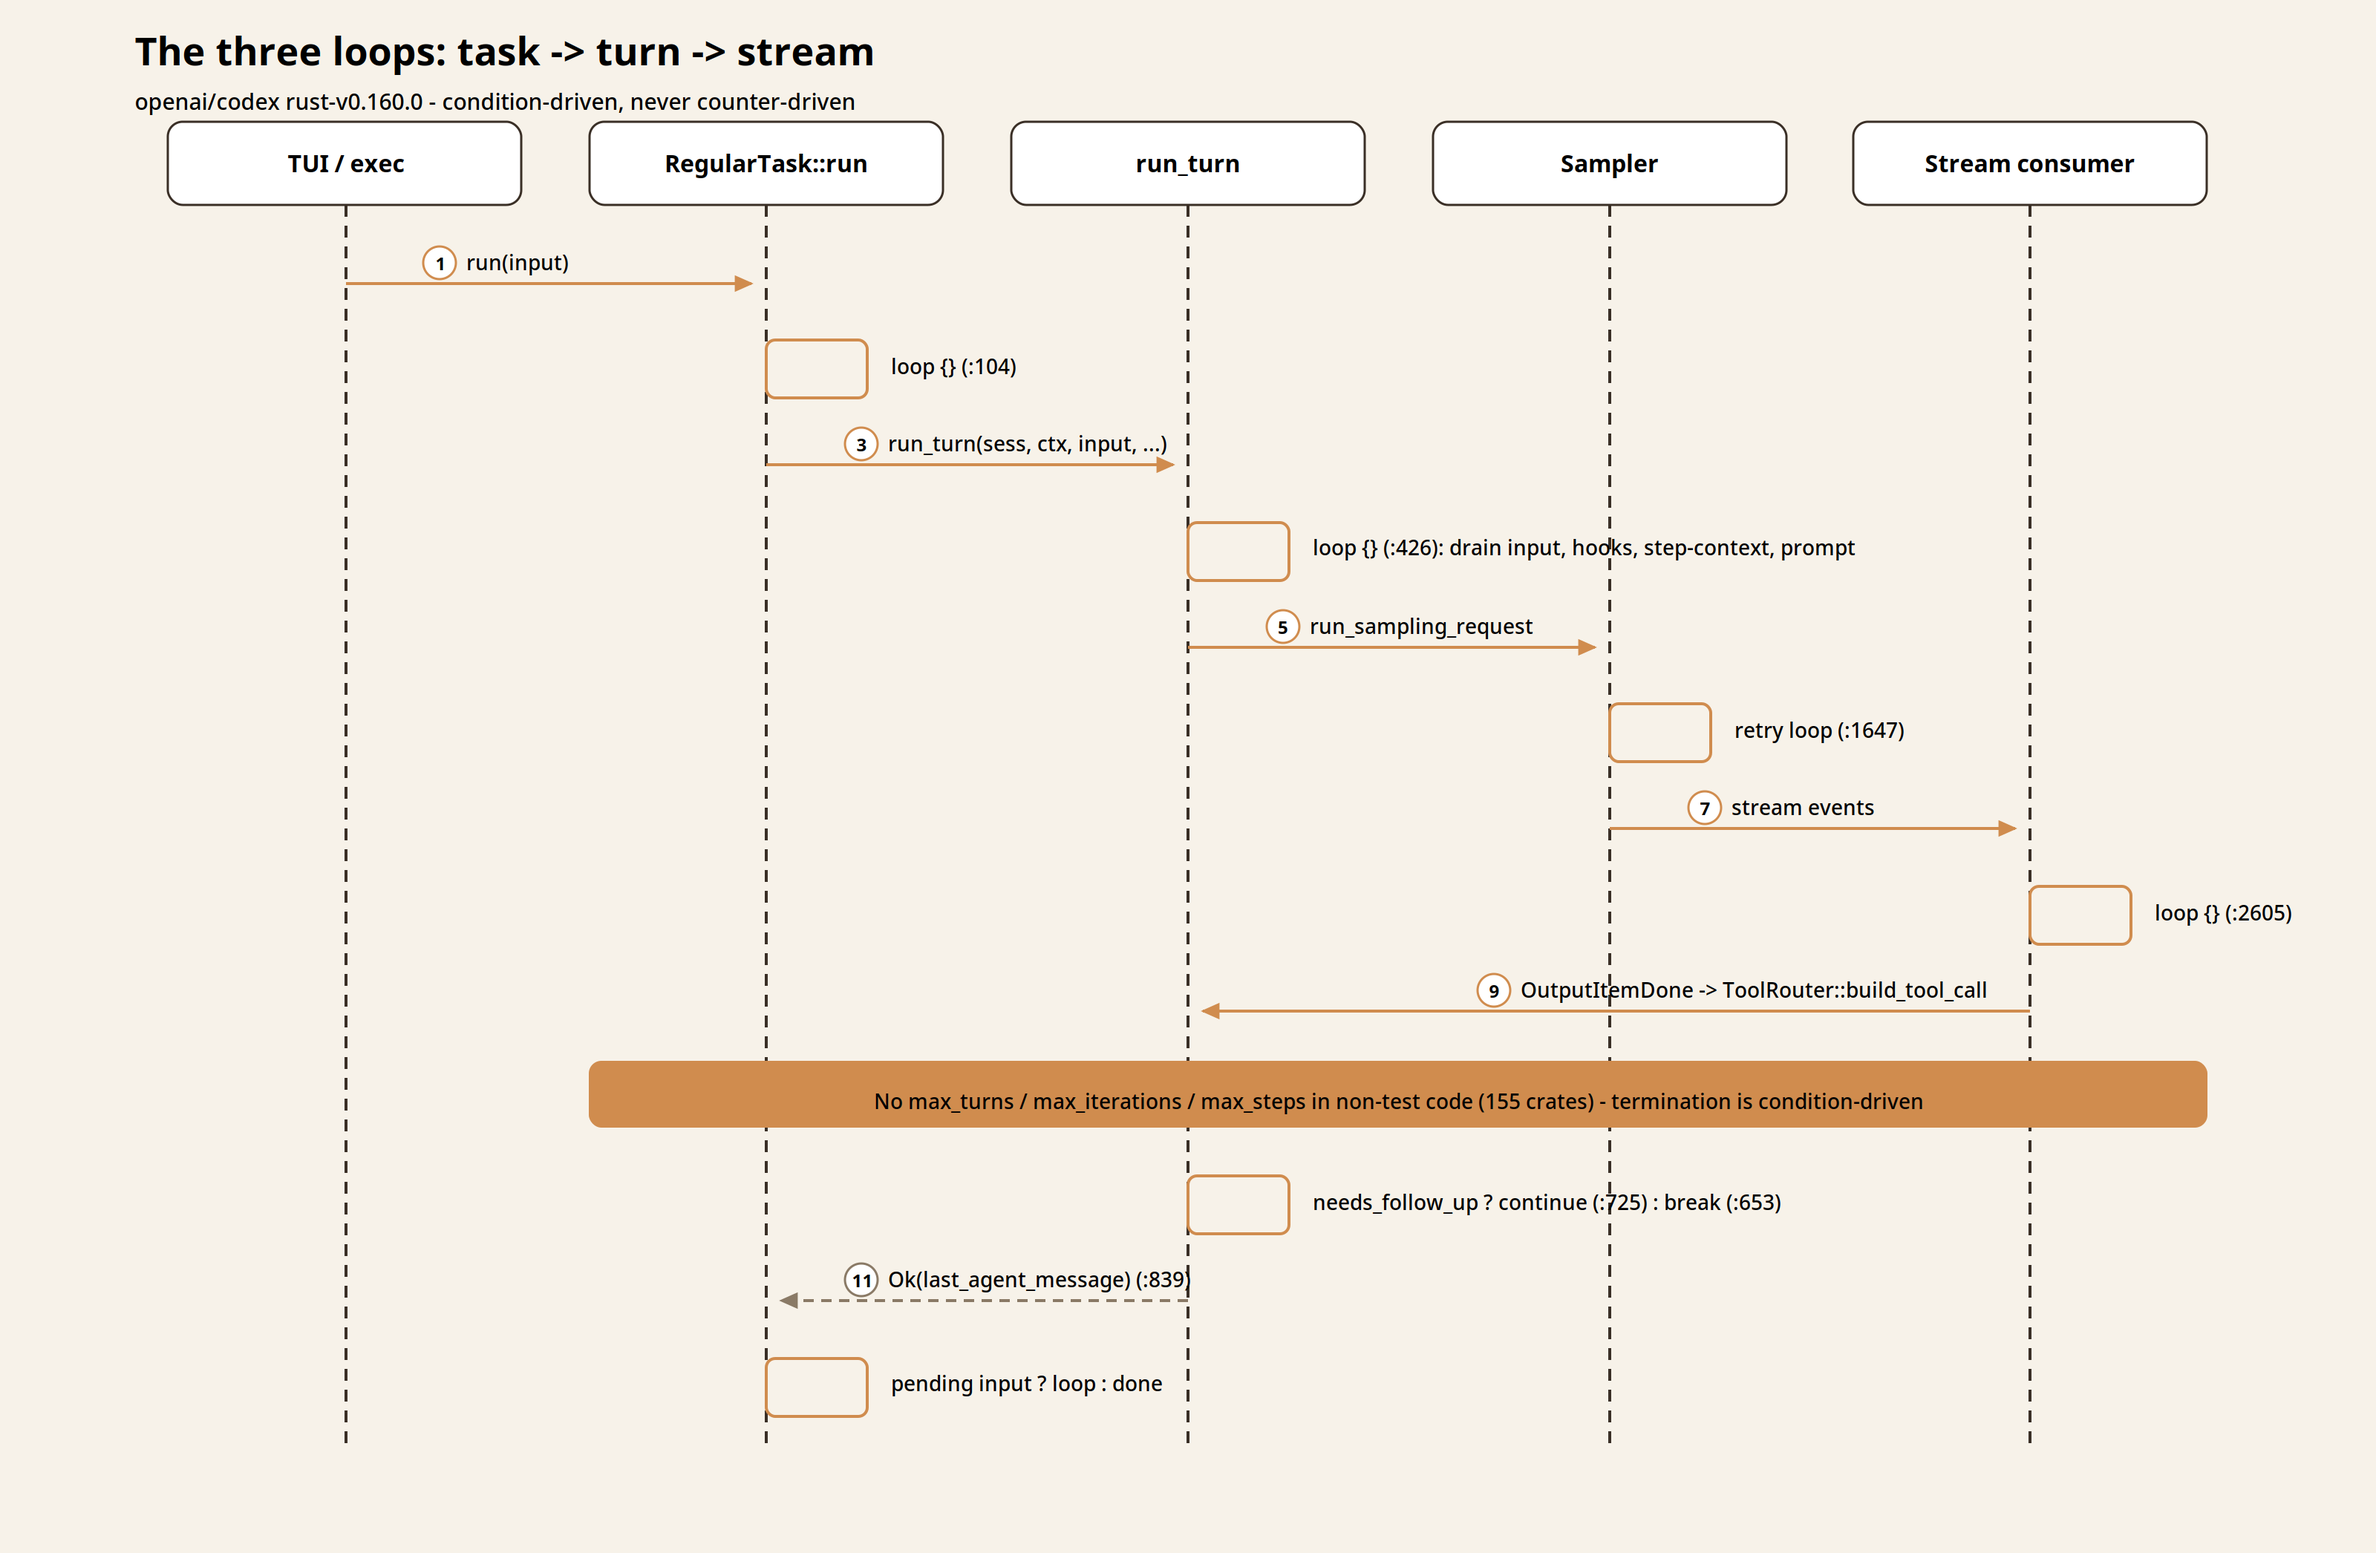
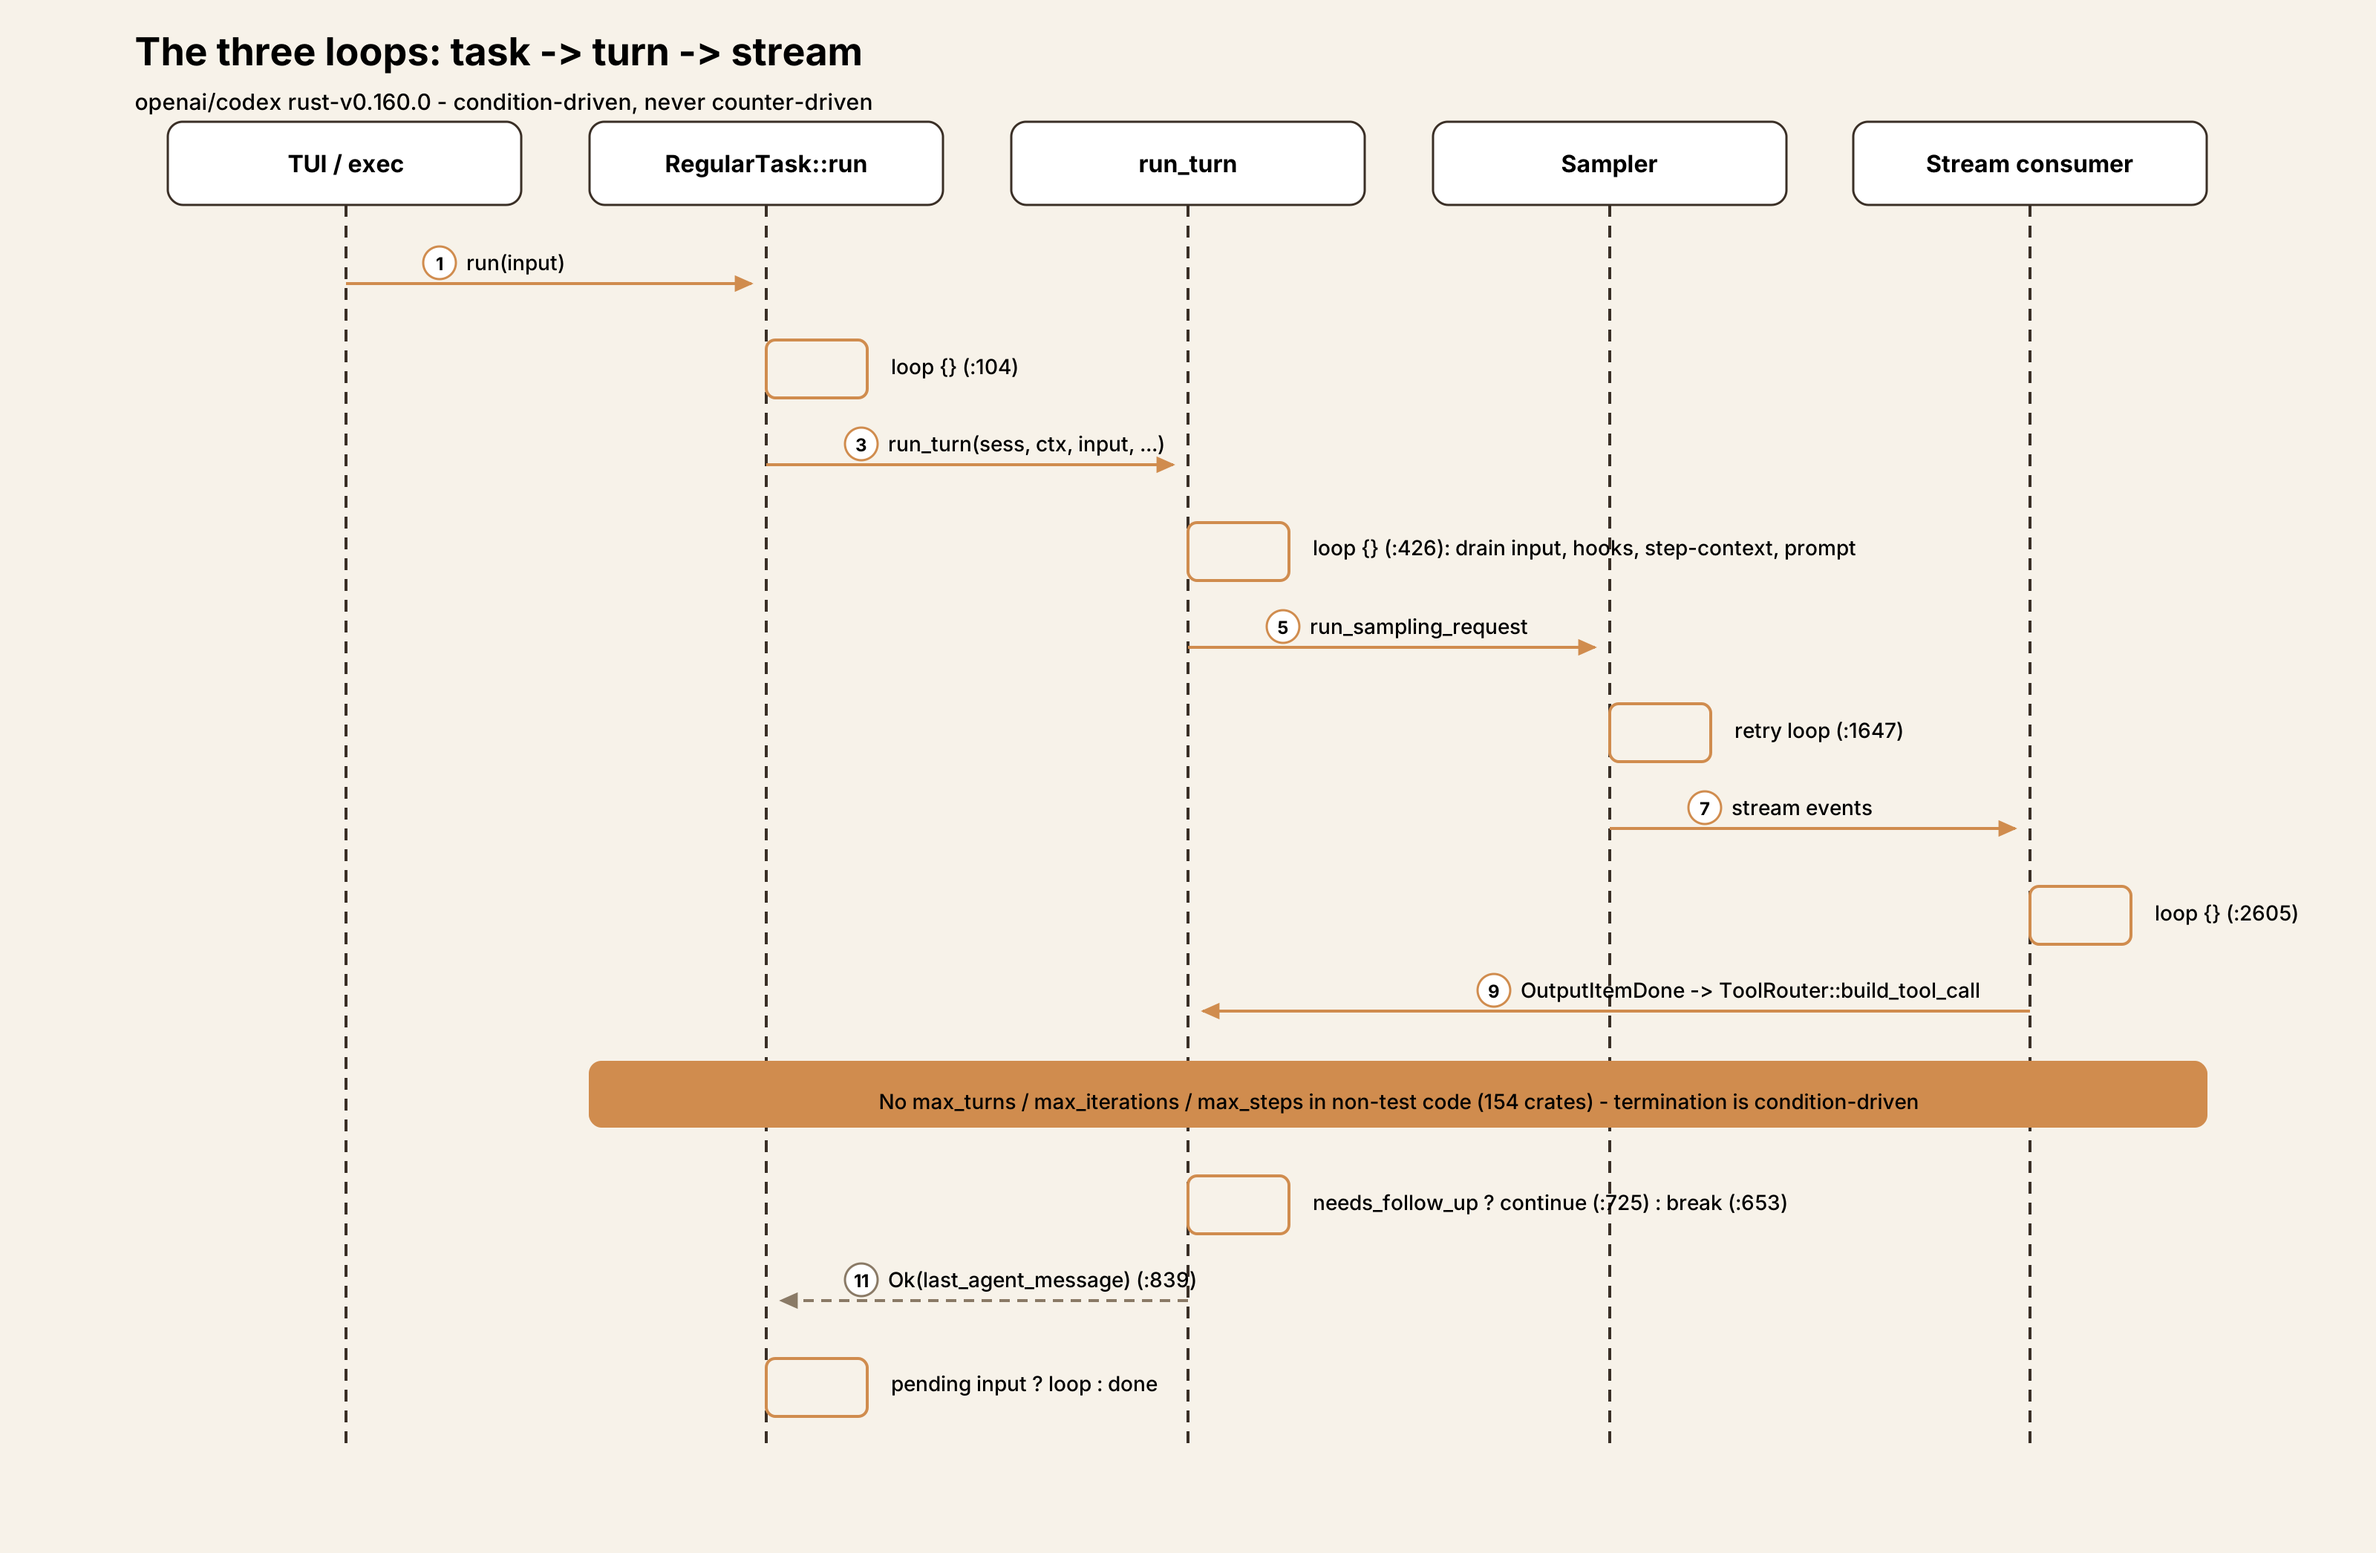
figures: carry corrected facts into figures and trace data
- cline seq-approval figure and trace steps: "commands prompt by default"
- pi trace steps: ~42 providers
- codex seq-loops figure and trace page: 154 crates
Matching @2x PNGs re-rendered from the updated SVGs.

diff --git a/codex/trace.html b/codex/trace.html
@@ -180,7 +180,7 @@
     <div class="ret"><b>One pass</b> &mdash; TUI keypress &rarr; app-server <code>turn/start</code> &rarr; <code>Op::TurnInput</code> &rarr; core: <code>spawn_task</code> &rarr; <code>run_turn</code> &rarr; prompt build &rarr; <code>/responses</code> stream &rarr; tool futures gated by approvals &rarr; loop or stop. Three loops nest: <code>RegularTask::run</code> &rarr; <code>run_turn</code> &rarr; sampler retry + stream consumer.</div>
     <div class="flow" id="flowBranch"></div>
     <div class="ret"><b>Approval pause</b> &mdash; step 11 is a center step, not a branch: the turn loop parks in <code>drain_in_flight</code> until the approval decision lands, because approvals gate individual tool futures rather than re-prompting the model. Denials become failure tool results, not loop breaks.</div>
-    <div class="ret" style="border-color:#d08c4e"><b>Outer turn loop</b> &mdash; no <code>max_turns</code> anywhere in the tree (VERIFIED negative across 155 crates): the loop is condition-driven &mdash; <code>needs_follow_up ? continue : break</code>. Mid-stream steering preempts via the input queue; events stream back over app-server; the next user message re-enters at step 1.</div>
+    <div class="ret" style="border-color:#d08c4e"><b>Outer turn loop</b> &mdash; no <code>max_turns</code> anywhere in the tree (VERIFIED negative across 154 crates): the loop is condition-driven &mdash; <code>needs_follow_up ? continue : break</code>. Mid-stream steering preempts via the input queue; events stream back over app-server; the next user message re-enters at step 1.</div>
   </section>
 
   <footer>Simplified shapes of real Codex types, not verbatim runtime dumps. All module links pin <span id="sha"></span>.</footer>
